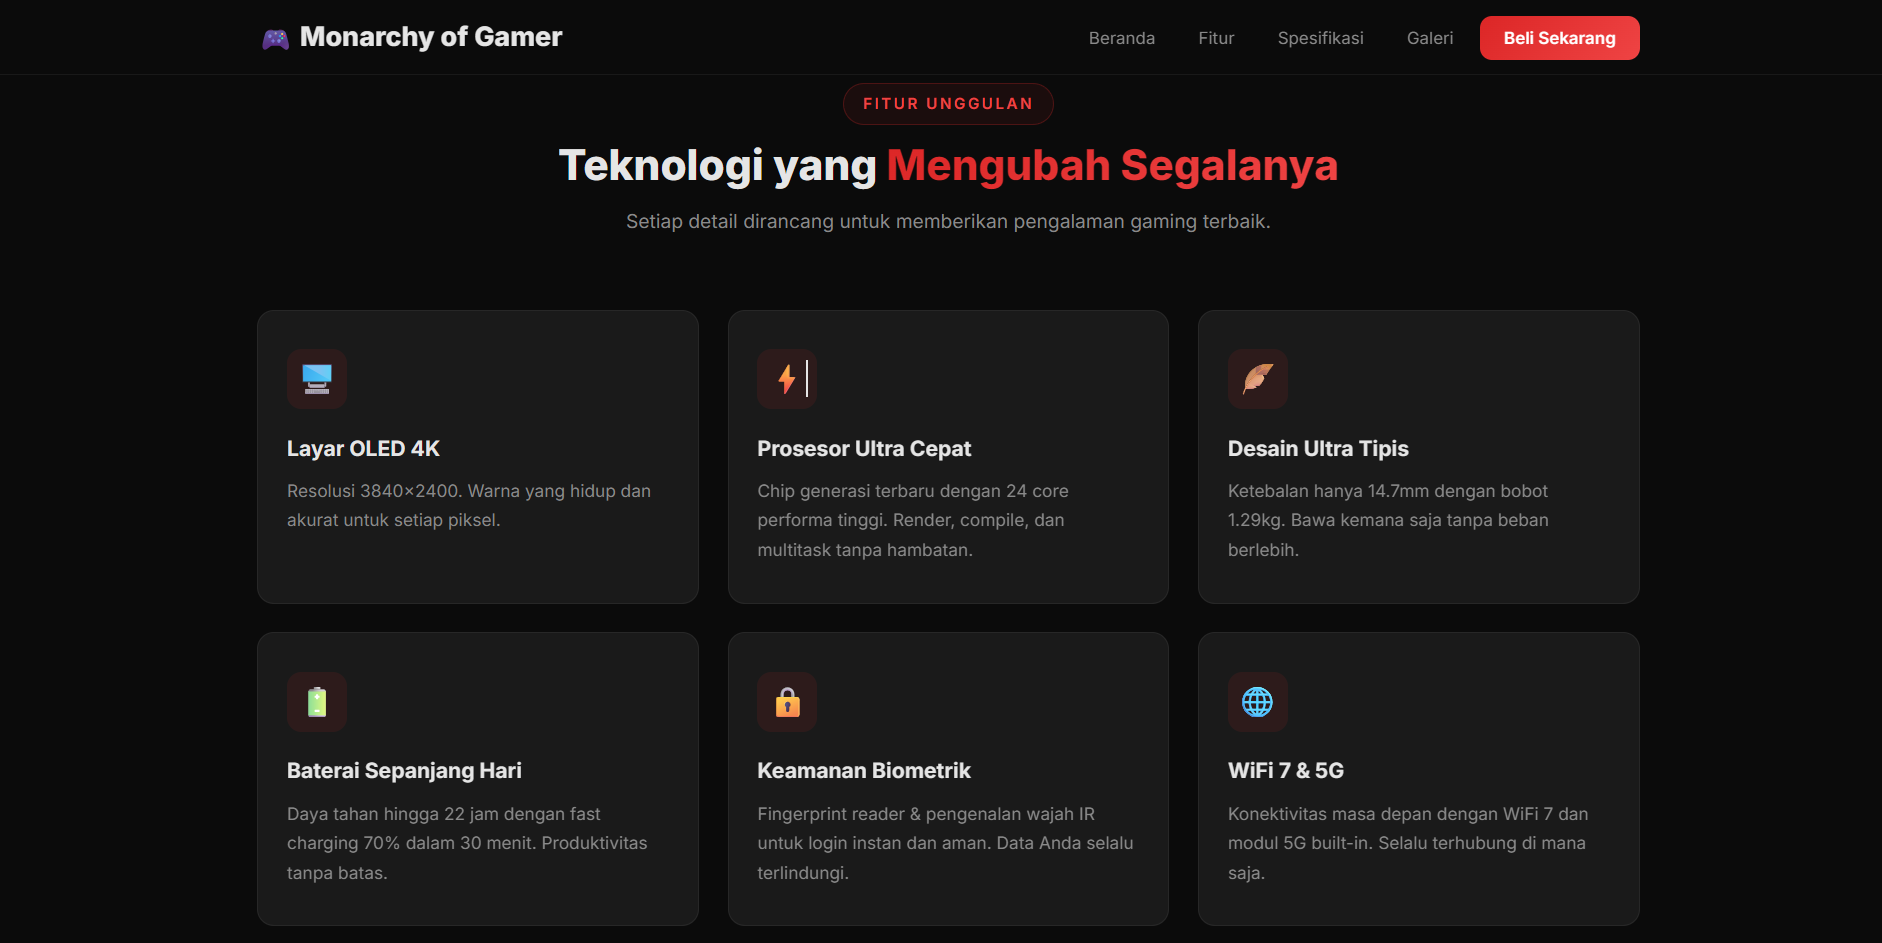
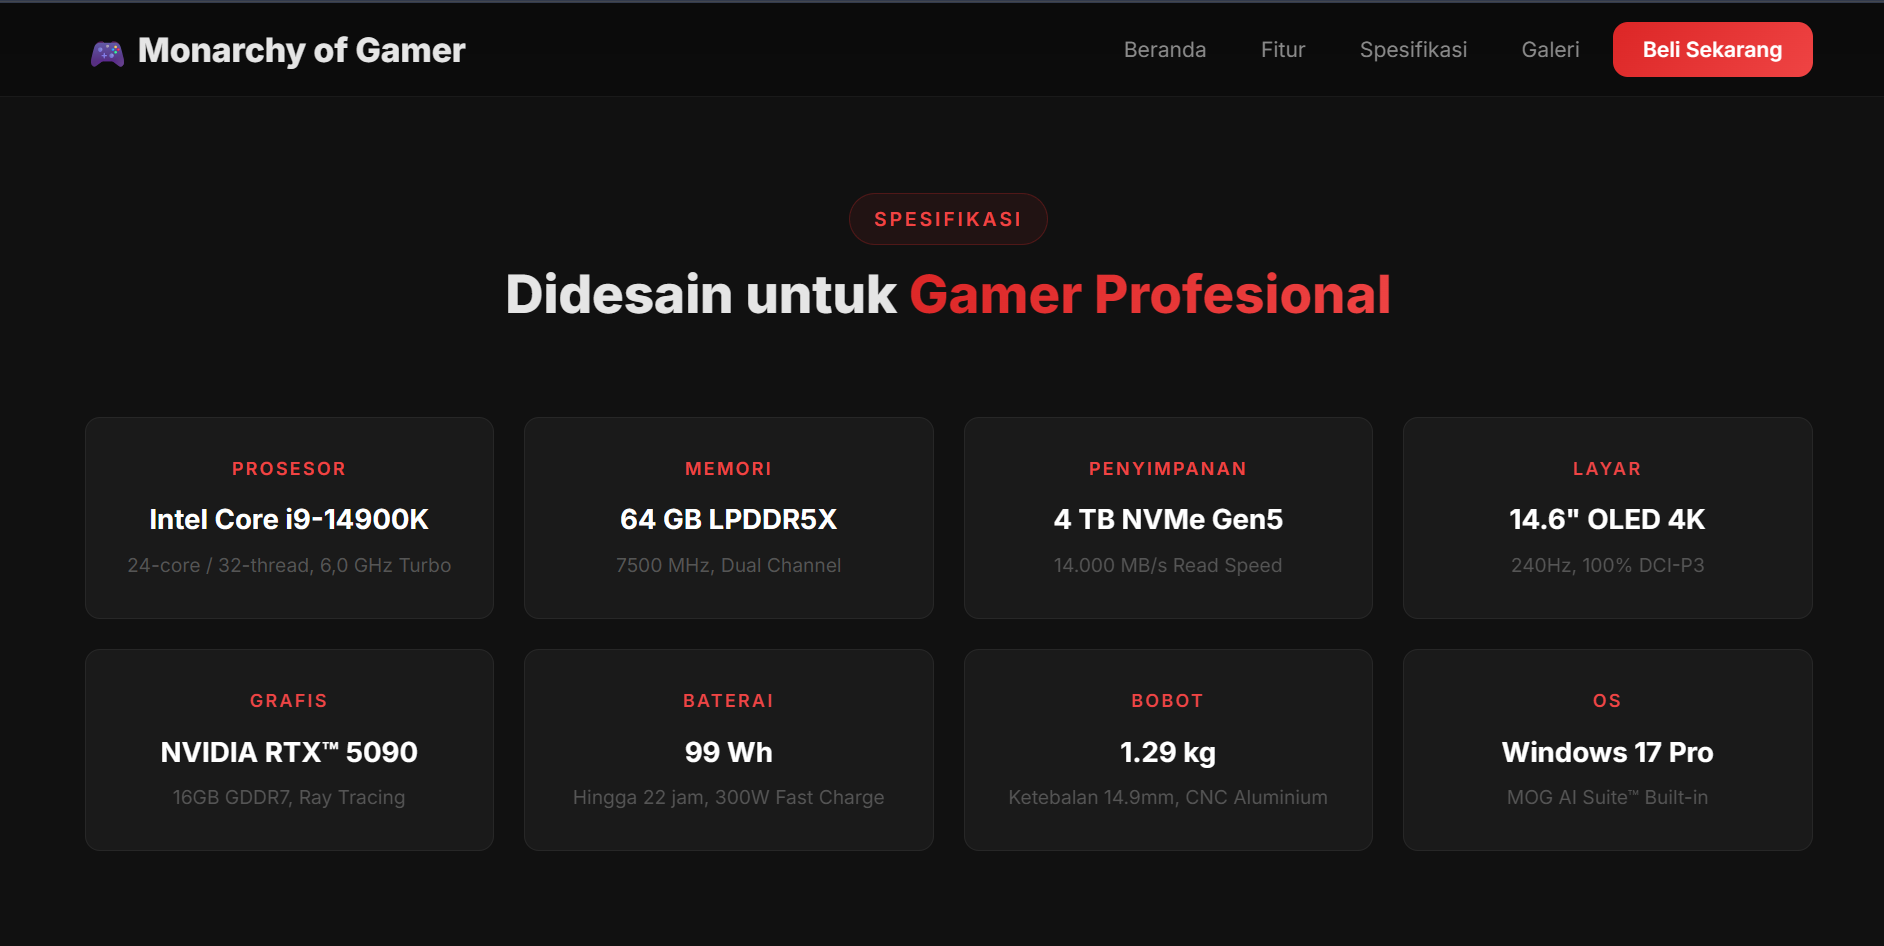
add README

diff --git a/README.md b/README.md
@@ -8,9 +8,6 @@ Landing page produk untuk laptop gaming **MOG Pro X1** dari brand *Monarchy of G
 
 ![Preview](./Images/Preview1.png)
 ![Preview](./Images/Preview2.png)
-![Preview](./Images/Preview3.png)
-![Preview](./Images/Preview4.png)
-![Preview](./Images/Preview5.png)
 
 ## ✨ Fitur
 
